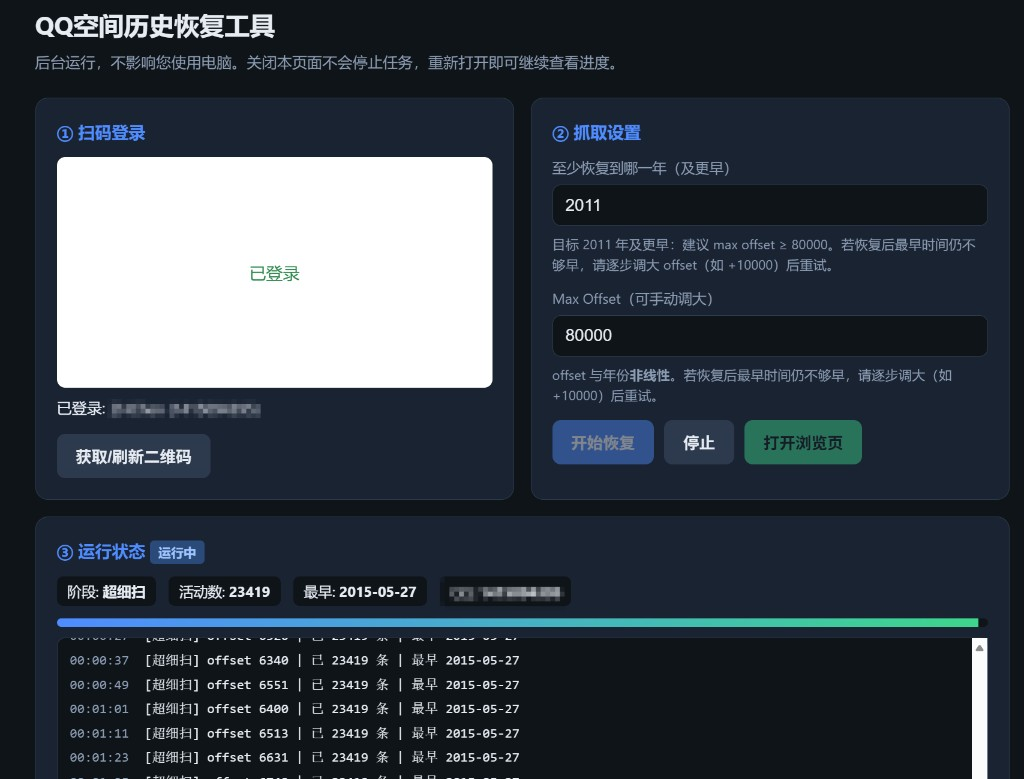
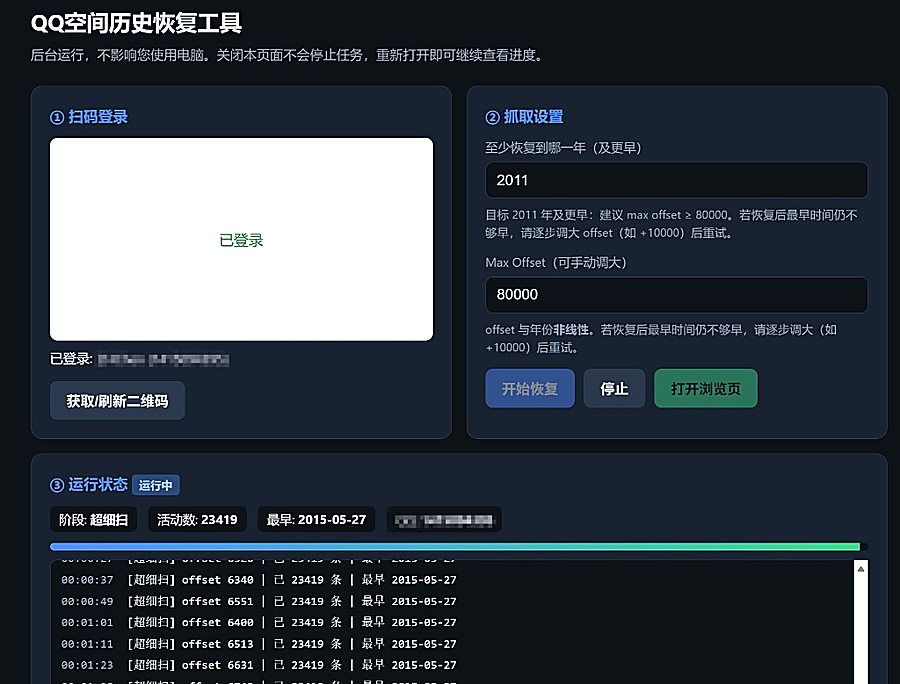
docs: sharpen README screenshots and constrain display width

diff --git a/README.md b/README.md
@@ -2,7 +2,7 @@
 
 # QQ 空间历史恢复工具
 
-**qzone-history** — 找回那些已消失的说说与留言
+**Qzone-History** — 找回那些已被删除的说说与留言
 
 <br>
 
@@ -33,15 +33,21 @@
 
 双击 `qzone-history-gui.exe` 后，浏览器自动打开 Web 控制台，扫码登录即可开始恢复：
 
-![控制台总览](docs/images/gui-overview.png)
+<p align="center">
+  <img src="docs/images/gui-overview.png" alt="控制台总览" width="720">
+</p>
 
 实时日志与抓取进度：
 
-![运行日志与进度](docs/images/gui-logs.png)
+<p align="center">
+  <img src="docs/images/gui-logs.png" alt="运行日志与进度" width="720">
+</p>
 
 恢复完成后，在本地 HTML 浏览页按时间线查看说说、留言与活动记录：
 
-![恢复结果浏览页](docs/images/viewer-result.png)
+<p align="center">
+  <img src="docs/images/viewer-result.png" alt="恢复结果浏览页" width="720">
+</p>
 
 ---
 
